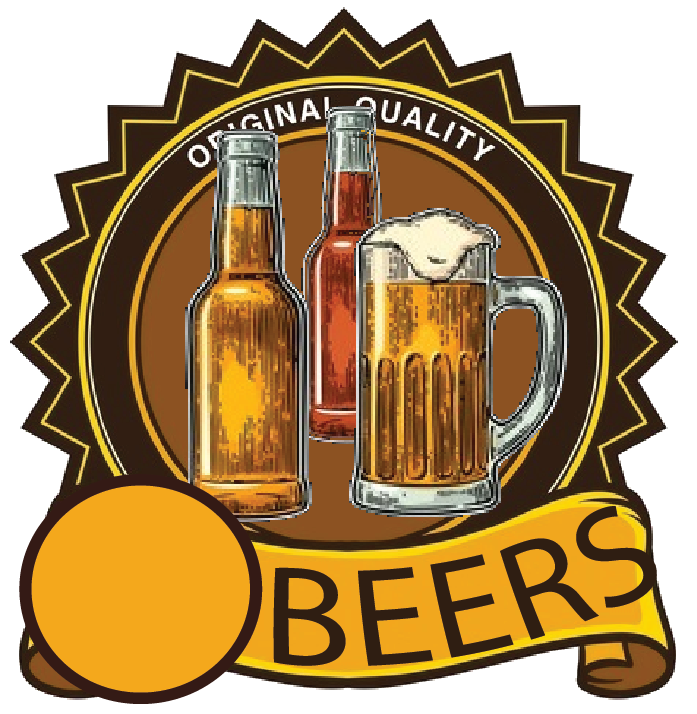
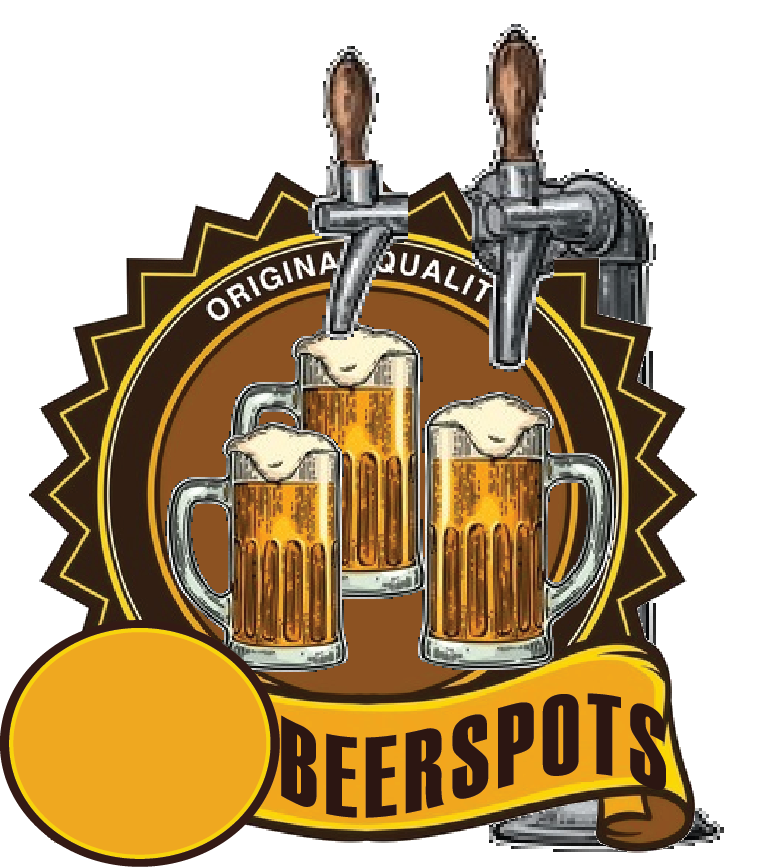
new into pins/btns, new cap pins

diff --git a/index.html b/index.html
@@ -133,7 +133,7 @@
 
 
     <!-- Modal -->
-    <div class="modal fade" onclick="closeIntroModal()" id="introModal" style="padding-right: 0px!important;background-color:rgba(58, 51, 51, 0.73);"tabindex="-1" role="dialog" aria-labelledby="introModalTitle" aria-hidden="true" >
+    <div class="modal fade"  id="introModal" style="padding-right: 0px!important;background-color:rgba(58, 51, 51, 0.73);"tabindex="-1" role="dialog" aria-labelledby="introModalTitle" aria-hidden="true" >
       <div class="modal-dialog modal-dialog-centered" role="document" >
         <div class="modal-content intro-modal" >
 
@@ -150,10 +150,10 @@
               </div>
               <div class="row pt-4 pb-4"></div>
               <div class="row pb-5">
-                <div class="col-6 no-padding">
+                <div class="col-6 no-padding pt-1">
                   <div class="thumbnail" id="allNumberThb">
-                      <img src="images/introPin1.png" class="rounded img-fluid" alt="...">
-                        <div id="allNumber" class="top-center-l top-center-r">69</div>
+                      <img src="images/introPin1-a.png" class="rounded img-fluid" alt="...">
+                        <div id="allNumber" class="top-center-l">69</div>
                         <div class="ampersand">&</div>
                         <!-- <div class="top-center-r" lng-key="introBrewers"></div> -->
                   </div>
@@ -162,14 +162,19 @@
                 <div class="col-1 no-padding"></div>
                 <div class="col-5 no-padding">
                   <div class="thumbnail" id="clientThb">
-                      <img src="images/introPin2.png" class="rounded img-fluid" width=400 alt="...">
-                        <div id="clientNumber" class="top-center-l">69</div>
+                      <img src="images/introPin2-a.png" class="rounded img-fluid" alt="...">
+                        <div id="clientNumber" class="top-center-r">69</div>
                         <!-- <div class="top-center-r" lng-key="introBeers"></div> -->
                   </div>
                 </div>
               </div>
-              <!-- <div class="row pb-5">
-              </div> -->
+              <div class="row pb-5">
+                <div class="col text-center">
+                  <h5 style="color: white">Μπορείς να τις βρεις;</h5>
+                  <br>
+                  <button type="button" class="btn btn-wood btn-lg" onclick="closeIntroModal()">ΣΥΝΕΧΕΙΑ</button>
+                </div>
+              </div>
             </div>
           </div>
 
@@ -222,9 +227,7 @@
               <!-- <button id='beersMode' type="button" class="btn btn-secondary btn-opacity mode-checked" onclick="handleRequests('showBeers')" lng-key="beersBtn">:</button>
               <button id='brewsMode' type="button" class="btn btn-secondary btn-opacity" onclick="handleRequests('showBrews')" lng-key="brewsBtn">:</button> -->
 
-              <button class="btn disabled" style="color: brown; background: transparent;">
-                   ΒΡΕΣ:
-              </button>
+
 
               <button id='brewsMode' class="btn btn-wood btn-opacity mode-checked"
                 onclick="handleRequests('showBrews')">
@@ -242,7 +245,7 @@
               <button id='spotsMode' class="btn btn-wood btn-opacity"
                 onclick="handleRequests('showSpots')">
                    <!-- <img src="images/introPin3.png" width="40" /> -->
-                   ΜΠΥΡΕΣ
+                   BEERSPOTS
               </button>
 
               <button id='eyeBtn' onmousedown="onEyeDown()" onmouseup="onEyeUp()" onclick="handleRequests('eye')"

diff --git a/style.css b/style.css
@@ -171,13 +171,7 @@ body {
   padding: 0;
 }
 
-.thumbnail {
-  /* font-weight: bold; */
-  position: relative;
-  text-align: center;
-  color: white;
-  font-size: 30px;
-}
+
 
 .centered-brewery {
 
@@ -222,22 +216,36 @@ body {
   font-family: Verdana;
 
 }
-
-.top-center-l {
-  top: 100%;
-  position: absolute;
-  bottom: 22px;
-  left: 50%;
-  transform: translate(-50%, -50%);
+.thumbnail {
   /* font-weight: bold; */
-  font-size: 130%;
-  color: hsl(39, 58%, 65%);
-  font-family: Cursive;
+  position: relative;
+  text-align: center;
+  color: white;
+  font-size: 50px;
 
 }
 
+.top-center-l {
+  top: 69%;
+  position: absolute;
+  left: 14%;
+  transform: translate(-50%, -50%);
+  /* font-weight: bold; */
+  font-size: 75%;
+  /* color: white; */
+  font-family: Cursive;
+}
+
 .top-center-r {
-  font-size: 100%;
+  top: 85%;
+  position: absolute;
+  left: 18%;
+  transform: translate(-50%, -50%);
+  /* font-weight: bold; */
+  font-size: 60%;
+  font-weight: bold;
+  /* color: white; */
+  font-family: Cursive;
 }
 
 

diff --git a/js/main.js b/js/main.js
@@ -389,7 +389,7 @@ function getAreaMarkerLabel(text) {
 	// console.log('getAreaMarkerLabel()')
 	return {
 		color: 'white',
-		fontSize: '15px',
+		fontSize: '16	px',
 		fontWeight: 'bold',
 		text: text,
 		fontFamily: "Cursive, Helvetica, Arial, Sans-Serif"
